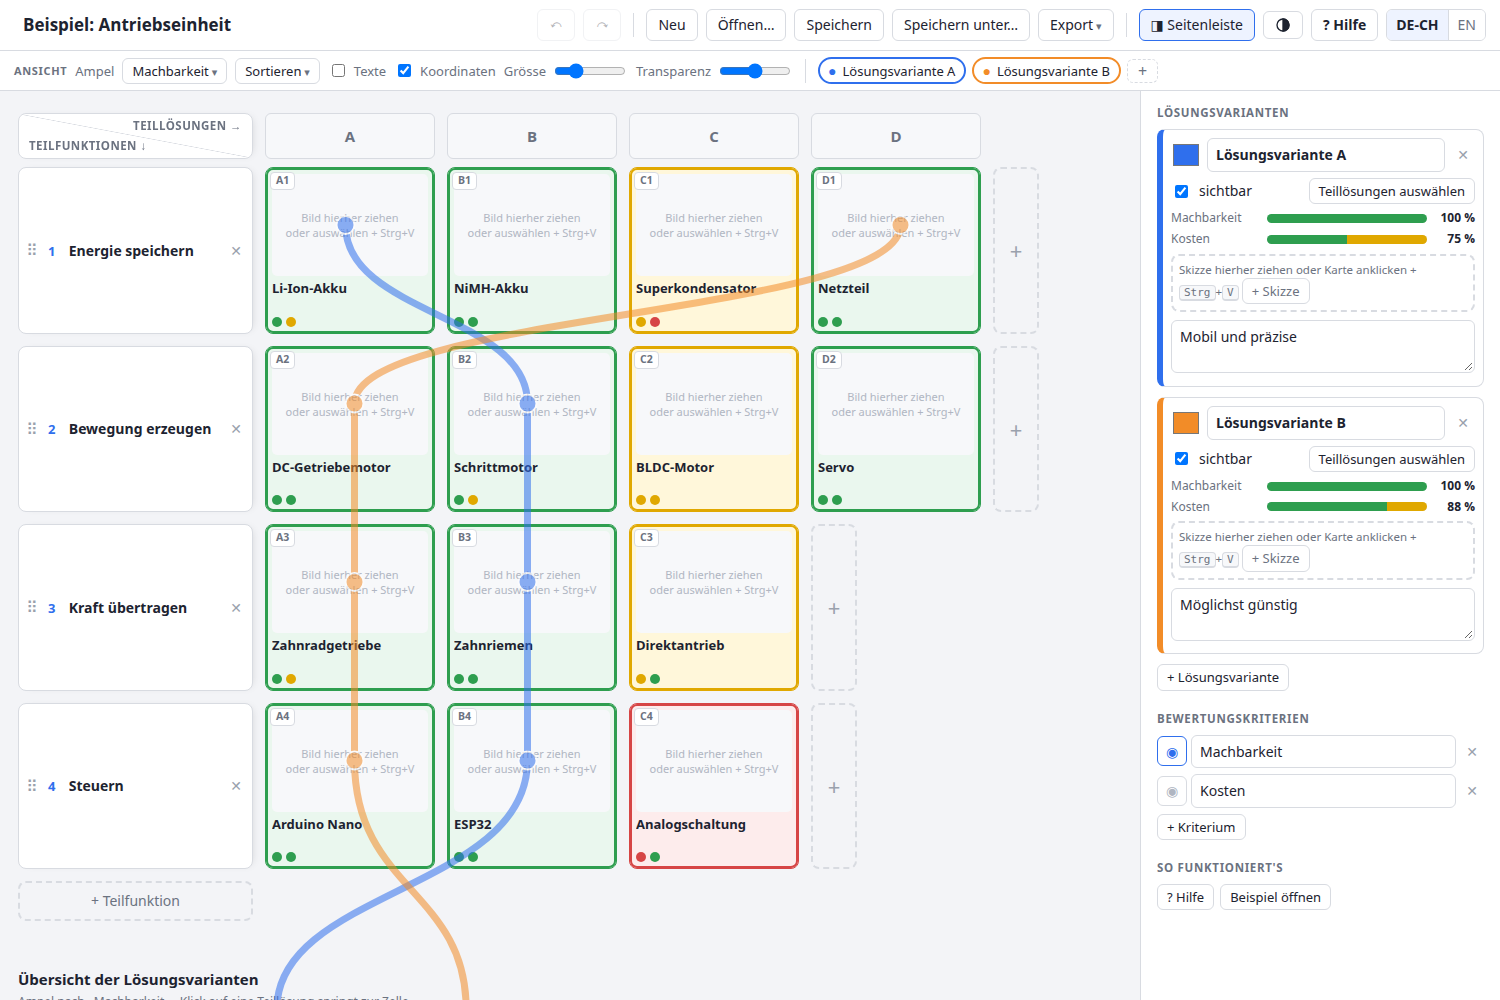
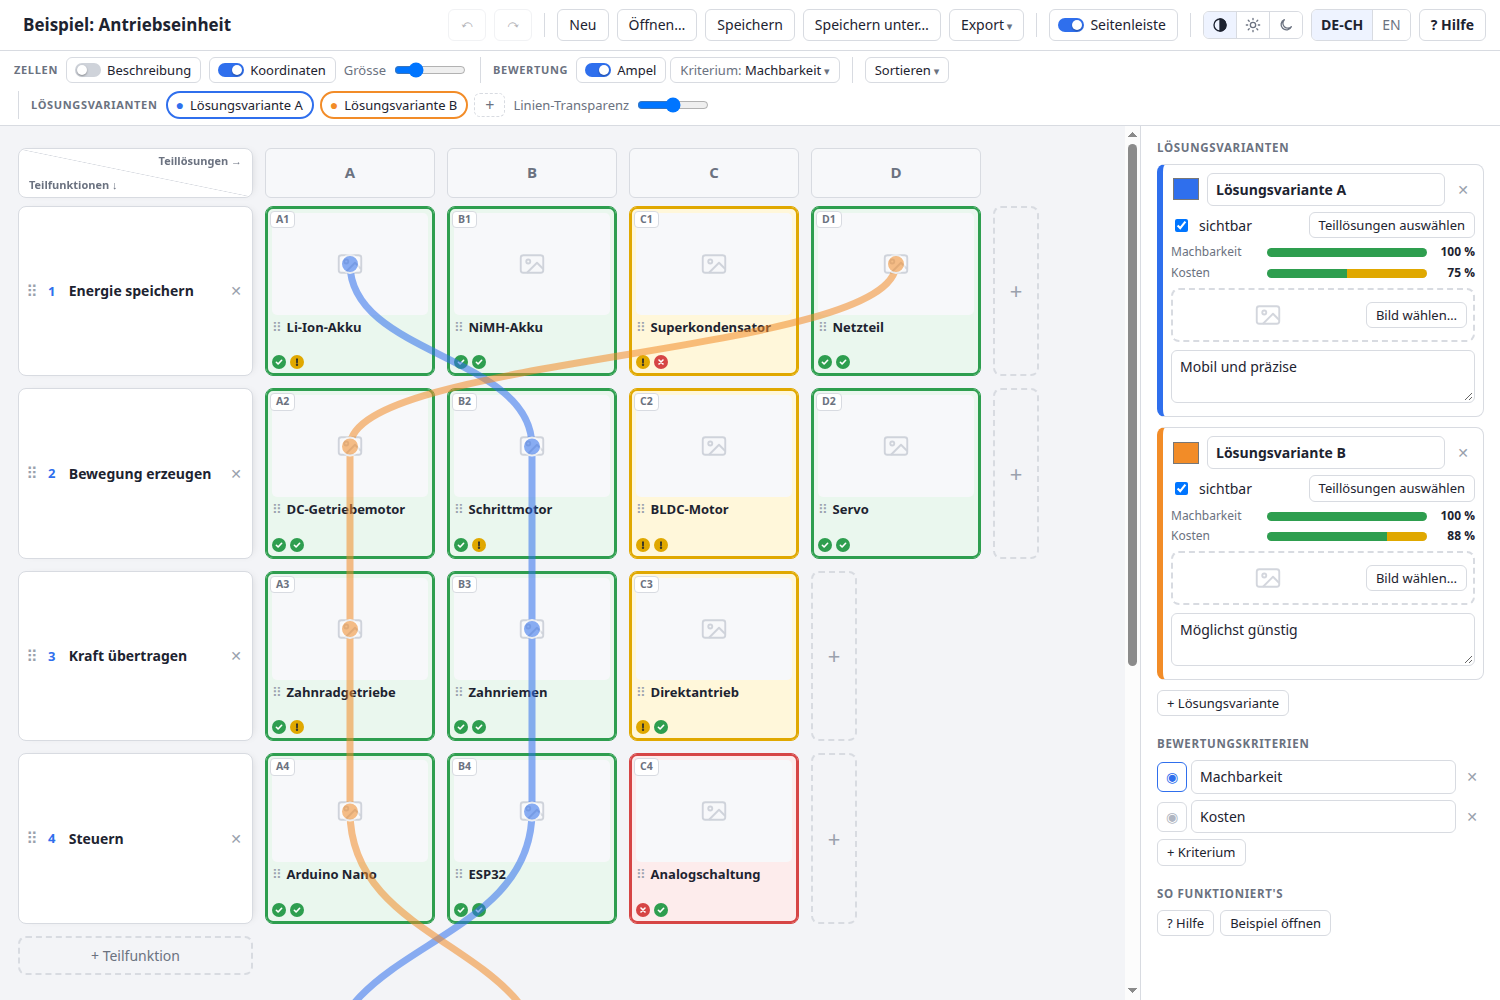
New screenshots; no toggle animation on page load

diff --git a/index.html b/index.html
@@ -290,6 +290,7 @@ body.noside #side{display:none}
 .btn.tgl[aria-pressed=true]::before{background:var(--accent)}
 .btn.tgl[aria-pressed=true]::after{transform:translateX(12px)}
 @media (prefers-reduced-motion:reduce){ .btn.tgl::before,.btn.tgl::after{transition:none} }
+html:not(.ready) .btn.tgl::before,html:not(.ready) .btn.tgl::after{transition:none} /* beim Laden nicht von «aus» nach «ein» gleiten */
 #bRate+.menu{margin-left:-4px}
 .menu-list{position:absolute;top:calc(100% + 4px);left:0;min-width:230px;background:var(--panel);border:1px solid var(--line);border-radius:8px;box-shadow:0 10px 28px rgba(0,0,0,.2);padding:4px;z-index:40}
 .menu-list[hidden]{display:none}
@@ -1809,6 +1810,7 @@ window.addEventListener('beforeunload',e=>{ if(ui.dirty&&!ui.autosaveOk){ e.prev
   if(isPhone()){ let seen=null; try{ seen=localStorage.getItem('mk-mobile-seen'); }catch(e){} if(!seen) $('#mobileDlg').showModal(); }
   else { let seen=null; try{ seen=localStorage.getItem('mk-help-seen'); }catch(e){ seen='1'; } if(!seen&&!restored) openHelp(); }
   if(document.fonts) document.fonts.ready.then(drawLines);
+  requestAnimationFrame(()=>requestAnimationFrame(()=>document.documentElement.classList.add('ready')));
 })();
 </script>
 </body>
